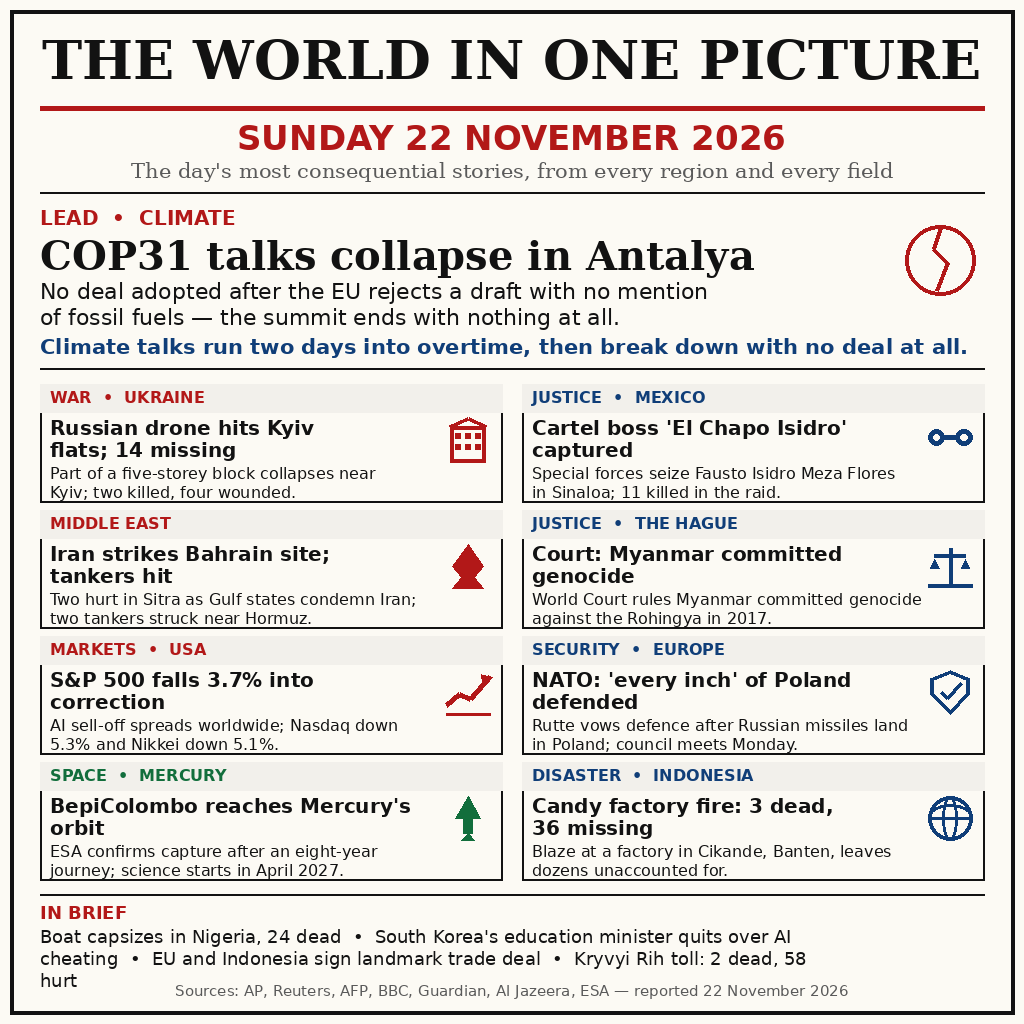
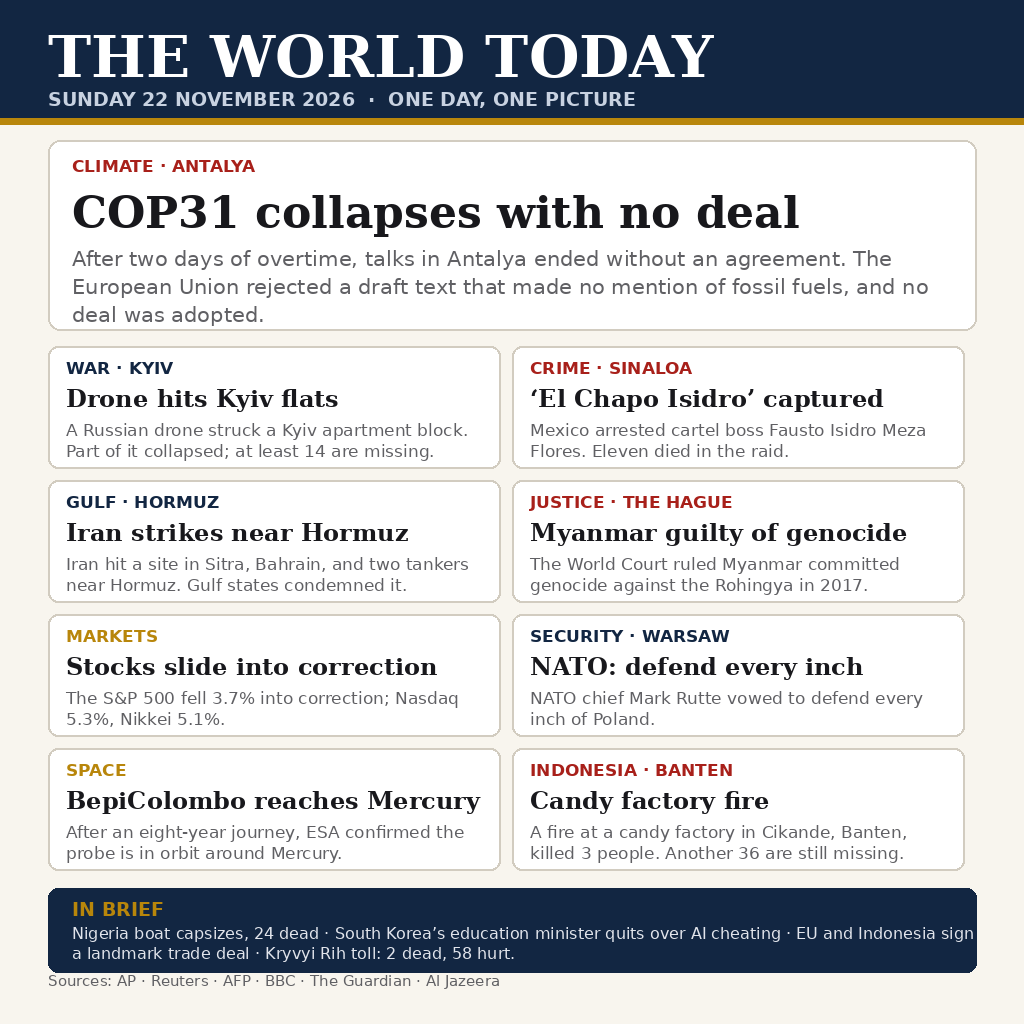
Rewrite generate.py from scratch: fresh layout, own helpers

diff --git a/generate.py b/generate.py
@@ -1,26 +1,29 @@
 #!/usr/bin/env python3
-"""Draw the 22 November 2026 world-news front page (1024x1024 PNG).
+"""Draw the 22 November 2026 world-news summary as a single 1024x1024 image.
 
-Every story below was checked against news first reported on Sunday
-22 November 2026 (AP, Reuters, AFP, BBC, Guardian, Al Jazeera, One Turn,
-phys.org / ESA). All artwork is drawn here in code with PIL shapes --
-no photos, no stock art, no AI-generated images.
-Run: python3 generate.py  ->  entry.png
+Everything is drawn in code with PIL: rectangles, rules and text only.
+No photos, no stock art, no AI imagery. The stories are the ones first
+reported on Sunday 22 November 2026 (COP31, Kyiv, Sinaloa, Hormuz,
+the Rohingya ruling, the market sell-off, NATO, BepiColombo, Cikande).
+
+Run:  python3 generate.py        -> writes entry.png next to this file
 """
-import textwrap
+
 from PIL import Image, ImageDraw, ImageFont
 
-W, H = 1024, 1024
-INK = (18, 18, 18)
-RED = (178, 24, 24)
-BLUE = (16, 62, 120)
-GREEN = (18, 110, 60)
-GREY = (90, 90, 90)
-LIGHT = (242, 240, 235)
-PAPER = (252, 250, 244)
+W = H = 1024
+OUT = "entry.png"
 
-SERIF = "/usr/share/fonts/truetype/dejavu/DejaVuSerif-Bold.ttf"
-SERIF_R = "/usr/share/fonts/truetype/dejavu/DejaVuSerif.ttf"
+PAPER = (248, 245, 238)
+INK = (24, 24, 28)
+NAVY = (18, 38, 66)
+RED = (168, 32, 26)
+GOLD = (184, 134, 11)
+GREY = (96, 96, 100)
+CARD = (255, 255, 255)
+RULE = (210, 204, 192)
+
+SERIF_B = "/usr/share/fonts/truetype/dejavu/DejaVuSerif-Bold.ttf"
 SANS = "/usr/share/fonts/truetype/dejavu/DejaVuSans.ttf"
 SANS_B = "/usr/share/fonts/truetype/dejavu/DejaVuSans-Bold.ttf"
 
@@ -29,156 +32,135 @@ def font(path, size):
     return ImageFont.truetype(path, size)
 
 
-def wrap(draw, text, fnt, width):
-    out = []
-    for para in text.split("\n"):
-        out.extend(textwrap.wrap(para, width=width, break_long_words=False) or [""])
-    return out
+def wrap(draw, text, fnt, max_w):
+    """Greedy word wrap returning a list of lines that fit max_w pixels."""
+    lines, cur = [], ""
+    for word in text.split():
+        trial = (cur + " " + word).strip()
+        if draw.textlength(trial, font=fnt) <= max_w:
+            cur = trial
+        else:
+            if cur:
+                lines.append(cur)
+            cur = word
+    if cur:
+        lines.append(cur)
+    return lines
 
 
-def text_block(draw, x, y, text, fnt, color, max_w, leading=None):
-    """Draw wrapped text; returns y after the last line."""
-    avg = fnt.getlength("x")
-    lines = wrap(draw, text, fnt, max(8, int(max_w / max(avg, 1))))
-    lh = leading or int(fnt.size * 1.25)
-    for line in lines:
+def para(draw, x, y, text, fnt, max_w, leading, color=INK):
+    """Draw wrapped text, return the y just below the last line."""
+    for line in wrap(draw, text, fnt, max_w):
         draw.text((x, y), line, font=fnt, fill=color)
-        y += lh
+        y += leading
     return y
 
 
-def icon(draw, kind, x, y, s, color):
-    """Simple pictogram drawn from shapes, inside a square of side s."""
-    if kind == "globe":
-        draw.ellipse([x, y, x + s, y + s], outline=color, width=4)
-        draw.ellipse([x + s * .32, y, x + s * .68, y + s], outline=color, width=3)
-        draw.line([(x, y + s * .5), (x + s, y + s * .5)], fill=color, width=3)
-        draw.arc([x, y + s * .2, x + s, y + s * .8], 200, 340, fill=color, width=3)
-    elif kind == "crack":
-        # globe with a crack: climate talks collapsing
-        draw.ellipse([x, y, x + s, y + s], outline=color, width=4)
-        draw.line([(x + s * .5, y + s * .05), (x + s * .4, y + s * .35),
-                   (x + s * .6, y + s * .55), (x + s * .45, y + s * .95)],
-                  fill=color, width=4)
-    elif kind == "building":
-        draw.rectangle([x + s * .1, y + s * .2, x + s * .9, y + s], outline=color, width=4)
-        draw.line([(x + s * .1, y + s * .2), (x + s * .5, y), (x + s * .9, y + s * .2)],
-                  fill=color, width=4)
-        for r in range(2):
-            for c in range(3):
-                draw.rectangle([x + s * (.22 + c * .22), y + s * (.35 + r * .25),
-                                x + s * (.34 + c * .22), y + s * (.47 + r * .25)],
-                               fill=color)
-    elif kind == "cuffs":
-        draw.ellipse([x, y + s * .25, x + s * .38, y + s * .63], outline=color, width=5)
-        draw.ellipse([x + s * .62, y + s * .25, x + s, y + s * .63], outline=color, width=5)
-        draw.line([(x + s * .38, y + s * .44), (x + s * .62, y + s * .44)],
-                  fill=color, width=5)
-    elif kind == "flame":
-        draw.polygon([(x + s * .5, y), (x + s * .85, y + s * .5), (x + s * .65, y + s * .75),
-                      (x + s * .85, y + s), (x + s * .15, y + s), (x + s * .35, y + s * .75),
-                      (x + s * .15, y + s * .5)], fill=color)
-    elif kind == "scales":
-        draw.line([(x + s * .5, y + s * .1), (x + s * .5, y + s * .9)], fill=color, width=4)
-        draw.line([(x + s * .15, y + s * .25), (x + s * .85, y + s * .25)], fill=color, width=4)
-        draw.polygon([(x + s * .05, y + s * .55), (x + s * .25, y + s * .55),
-                      (x + s * .15, y + s * .35)], outline=color, width=3)
-        draw.polygon([(x + s * .75, y + s * .55), (x + s * .95, y + s * .55),
-                      (x + s * .85, y + s * .35)], outline=color, width=3)
-        draw.line([(x, y + s * .95), (x + s, y + s * .95)], fill=color, width=4)
-    elif kind == "chart":
-        draw.line([(x, y + s * .8), (x + s * .3, y + s * .55), (x + s * .55, y + s * .68),
-                   (x + s, y + s * .15)], fill=color, width=5)
-        draw.polygon([(x + s * .8, y + s * .1), (x + s, y + s * .15), (x + s * .82, y + s * .32)],
-                     fill=color)
-        draw.line([(x, y + s), (x + s, y + s)], fill=color, width=3)
-    elif kind == "shield":
-        draw.polygon([(x + s * .5, y), (x + s * .95, y + s * .2), (x + s * .95, y + s * .55),
-                      (x + s * .5, y + s), (x + s * .05, y + s * .55), (x + s * .05, y + s * .2)],
-                     outline=color, width=4)
-        draw.line([(x + s * .3, y + s * .5), (x + s * .45, y + s * .65),
-                   (x + s * .75, y + s * .3)], fill=color, width=4)
-    elif kind == "rocket":
-        draw.polygon([(x + s * .5, y), (x + s * .78, y + s * .5),
-                      (x + s * .22, y + s * .5)], fill=color)
-        draw.rectangle([x + s * .4, y + s * .5, x + s * .6, y + s * .85], fill=color)
-        draw.polygon([(x + s * .5, y + s * .85), (x + s * .65, y + s),
-                      (x + s * .35, y + s)], fill=color)
+def kicker(draw, x, y, label, color):
+    fnt = font(SANS_B, 17)
+    draw.text((x, y), label.upper(), font=fnt, fill=color)
+    return y + 24
+
+
+def story_card(draw, box, label, color, head, body, head_size=25):
+    """One news card: coloured kicker, headline, at most two body lines."""
+    x0, y0, x1, y1 = box
+    draw.rounded_rectangle(box, radius=10, fill=CARD, outline=RULE, width=2)
+    px, py = x0 + 18, y0 + 12
+    inner = x1 - x0 - 36
+    py = kicker(draw, px, py, label, color)
+    py = para(draw, px, py + 2, head, font(SERIF_B, head_size),
+              inner, head_size + 6)
+    lines = wrap(draw, body, font(SANS, 17), inner)[:2]
+    for line in lines:
+        draw.text((px, py + 6), line, font=font(SANS, 17), fill=GREY)
+        py += 21
+    return y1
 
 
 def main():
     img = Image.new("RGB", (W, H), PAPER)
     d = ImageDraw.Draw(img)
-    d.rectangle([10, 10, W - 10, H - 10], outline=INK, width=4)
 
-    # ---- masthead ----
-    d.text((512, 28), "THE WORLD IN ONE PICTURE", font=font(SERIF, 54),
-           fill=INK, anchor="ma")
-    d.line([(40, 108), (984, 108)], fill=RED, width=5)
-    d.text((512, 118), "SUNDAY 22 NOVEMBER 2026", font=font(SANS_B, 34),
-           fill=RED, anchor="ma")
-    d.text((512, 158), "The day's most consequential stories, from every region and every field",
-           font=font(SERIF_R, 21), fill=GREY, anchor="ma")
-    d.line([(40, 192), (984, 192)], fill=INK, width=2)
+    # ---- Masthead band -------------------------------------------------
+    d.rectangle([0, 0, W, 118], fill=NAVY)
+    d.text((48, 22), "THE WORLD TODAY", font=font(SERIF_B, 58), fill=(255, 255, 255))
+    d.text((48, 88), "SUNDAY 22 NOVEMBER 2026  ·  ONE DAY, ONE PICTURE",
+           font=font(SANS_B, 19), fill=(200, 210, 225))
+    d.rectangle([0, 118, W, 124], fill=GOLD)
 
-    # ---- lead story: COP31 collapses ----
-    d.text((40, 206), "LEAD  •  CLIMATE", font=font(SANS_B, 20), fill=RED)
-    d.text((40, 232), "COP31 talks collapse in Antalya",
-           font=font(SERIF, 40), fill=INK)
-    d.text((40, 278), "No deal adopted after the EU rejects a draft with no mention",
-           font=font(SANS, 22), fill=INK)
-    d.text((40, 304), "of fossil fuels — the summit ends with nothing at all.",
-           font=font(SANS, 22), fill=INK)
-    d.text((40, 334), "Climate talks run two days into overtime, then break down with no deal at all.",
-           font=font(SANS_B, 21), fill=BLUE)
-    icon(d, "crack", 905, 225, 70, RED)
-    d.line([(40, 368), (984, 368)], fill=INK, width=2)
+    # ---- Lead story ----------------------------------------------------
+    lx, ly, lw = 48, 140, 928
+    d.rounded_rectangle([lx, ly, lx + lw, ly + 190], radius=12,
+                        fill=CARD, outline=RULE, width=2)
+    kicker(d, lx + 24, ly + 16, "Climate · Antalya", RED)
+    y = para(d, lx + 24, ly + 46,
+             "COP31 collapses with no deal",
+             font(SERIF_B, 44), lw - 48, 52)
+    para(d, lx + 24, y + 8,
+         "After two days of overtime, talks in Antalya ended without an "
+         "agreement. The European Union rejected a draft text that made no "
+         "mention of fossil fuels, and no deal was adopted.",
+         font(SANS, 21), lw - 48, 28, GREY)
 
-    # ---- story grid: 2 columns x 4 rows ----
-    cards = [
-        ("WAR  •  UKRAINE", "building", RED, "Russian drone hits Kyiv flats; 14 missing",
-         "Part of a five-storey block collapses near Kyiv; two killed, four wounded."),
-        ("JUSTICE  •  MEXICO", "cuffs", BLUE, "Cartel boss 'El Chapo Isidro' captured",
-         "Special forces seize Fausto Isidro Meza Flores in Sinaloa; 11 killed in the raid."),
-        ("MIDDLE EAST", "flame", RED, "Iran strikes Bahrain site; tankers hit",
-         "Two hurt in Sitra as Gulf states condemn Iran; two tankers struck near Hormuz."),
-        ("JUSTICE  •  THE HAGUE", "scales", BLUE, "Court: Myanmar committed genocide",
-         "World Court rules Myanmar committed genocide against the Rohingya in 2017."),
-        ("MARKETS  •  USA", "chart", RED, "S&P 500 falls 3.7% into correction",
-         "AI sell-off spreads worldwide; Nasdaq down 5.3% and Nikkei down 5.1%."),
-        ("SECURITY  •  EUROPE", "shield", BLUE, "NATO: 'every inch' of Poland defended",
-         "Rutte vows defence after Russian missiles land in Poland; council meets Monday."),
-        ("SPACE  •  MERCURY", "rocket", GREEN, "BepiColombo reaches Mercury's orbit",
-         "ESA confirms capture after an eight-year journey; science starts in April 2027."),
-        ("DISASTER  •  INDONESIA", "globe", BLUE, "Candy factory fire: 3 dead, 36 missing",
-         "Blaze at a factory in Cikande, Banten, leaves dozens unaccounted for."),
+    # ---- Grid of eight stories ----------------------------------------
+    stories = [
+        ("War · Kyiv", NAVY,
+         "Drone hits Kyiv flats",
+         "A Russian drone struck a Kyiv apartment block. Part of it "
+         "collapsed; at least 14 are missing."),
+        ("Crime · Sinaloa", RED,
+         "\u2018El Chapo Isidro\u2019 captured",
+         "Mexico arrested cartel boss Fausto Isidro Meza Flores. Eleven "
+         "died in the raid."),
+        ("Gulf · Hormuz", NAVY,
+         "Iran strikes near Hormuz",
+         "Iran hit a site in Sitra, Bahrain, and two tankers near Hormuz. "
+         "Gulf states condemned it."),
+        ("Justice · The Hague", RED,
+         "Myanmar guilty of genocide",
+         "The World Court ruled Myanmar committed genocide against the "
+         "Rohingya in 2017."),
+        ("Markets", GOLD,
+         "Stocks slide into correction",
+         "The S&P 500 fell 3.7% into correction; Nasdaq 5.3%, Nikkei 5.1%."),
+        ("Security · Warsaw", NAVY,
+         "NATO: defend every inch",
+         "NATO chief Mark Rutte vowed to defend every inch of Poland."),
+        ("Space", GOLD,
+         "BepiColombo reaches Mercury",
+         "After an eight-year journey, ESA confirmed the probe is in orbit "
+         "around Mercury."),
+        ("Indonesia · Banten", RED,
+         "Candy factory fire",
+         "A fire at a candy factory in Cikande, Banten, killed 3 people. "
+         "Another 36 are still missing."),
     ]
-    x0, y0 = 40, 384
-    cw, ch = 462, 118
-    gx, gy = 20, 8
-    for i, (tag, kind, col, head, body) in enumerate(cards):
-        x = x0 + (i % 2) * (cw + gx)
-        y = y0 + (i // 2) * (ch + gy)
-        d.rectangle([x, y, x + cw, y + ch], outline=INK, width=2)
-        d.rectangle([x, y, x + cw, y + 28], fill=LIGHT)
-        d.text((x + 10, y + 4), tag, font=font(SANS_B, 16), fill=col)
-        icon(d, kind, x + cw - 56, y + 34, 44, col)
-        text_block(d, x + 10, y + 32, head, font(SANS_B, 20), INK, cw - 76, leading=22)
-        text_block(d, x + 10, y + 80, body, font(SANS, 16), INK, cw - 20, leading=19)
+    gx, gy = 48, 346
+    cw, ch, gap = 452, 122, 12
+    for i, (label, color, head, body) in enumerate(stories):
+        cx = gx + (i % 2) * (cw + gap)
+        cy = gy + (i // 2) * (ch + gap)
+        story_card(d, (cx, cy, cx + cw, cy + ch), label, color, head, body,
+                   head_size=24)
 
-    # ---- in brief + sources ----
-    y3 = y0 + 4 * (ch + gy) + 6
-    d.line([(40, y3), (984, y3)], fill=INK, width=2)
-    d.text((40, y3 + 8), "IN BRIEF", font=font(SANS_B, 18), fill=RED)
-    brief = ("Boat capsizes in Nigeria, 24 dead  •  South Korea's education minister quits "
-             "over AI cheating  •  EU and Indonesia sign landmark trade deal  •  "
-             "Kryvyi Rih toll: 2 dead, 58 hurt")
-    text_block(d, 40, y3 + 32, brief, font(SANS, 18), INK, 944, leading=22)
-    d.text((512, H - 42), "Sources: AP, Reuters, AFP, BBC, Guardian, Al Jazeera, ESA — reported 22 November 2026",
-           font=font(SANS, 15), fill=GREY, anchor="ma")
+    # ---- In brief strip ------------------------------------------------
+    by = gy + 4 * (ch + gap) + 6
+    d.rounded_rectangle([48, by, 976, by + 84], radius=10,
+                        fill=NAVY, outline=NAVY)
+    d.text((72, by + 10), "IN BRIEF", font=font(SANS_B, 19), fill=GOLD)
+    para(d, 72, by + 36,
+         "Nigeria boat capsizes, 24 dead  ·  South Korea\u2019s education "
+         "minister quits over AI cheating  ·  EU and Indonesia sign a "
+         "landmark trade deal  ·  Kryvyi Rih toll: 2 dead, 58 hurt.",
+         font(SANS, 16), 904, 20, (225, 228, 235))
 
-    img.save("entry.png", optimize=True)
-    print("saved entry.png", img.size)
+    # ---- Footer --------------------------------------------------------
+    d.text((48, 972), "Sources: AP · Reuters · AFP · BBC · The Guardian · Al Jazeera",
+           font=font(SANS, 15), fill=GREY)
+
+    img.save(OUT, "PNG")
+    print(f"wrote {OUT}: {img.size[0]}x{img.size[1]}")
 
 
 if __name__ == "__main__":
